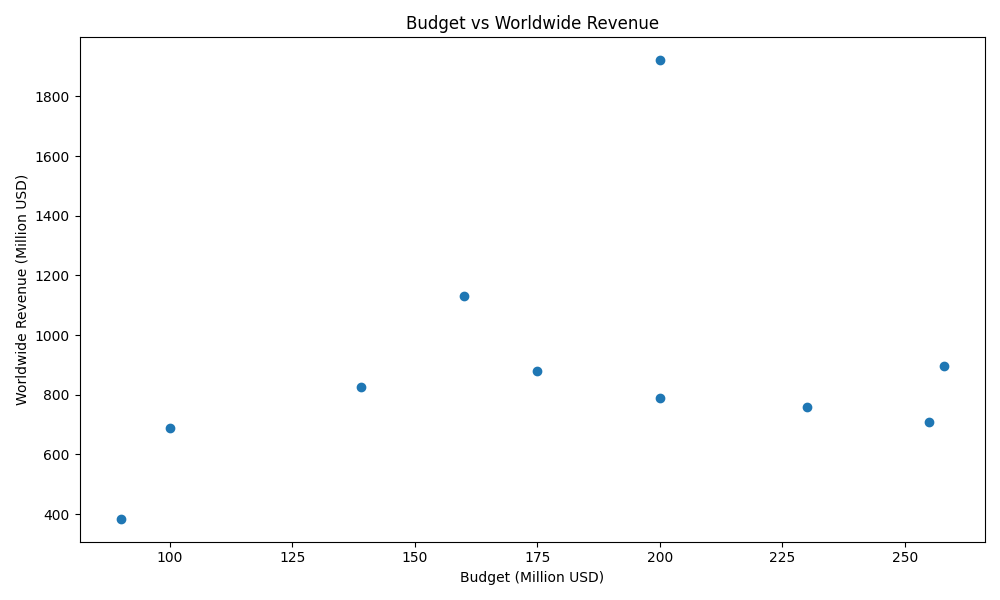
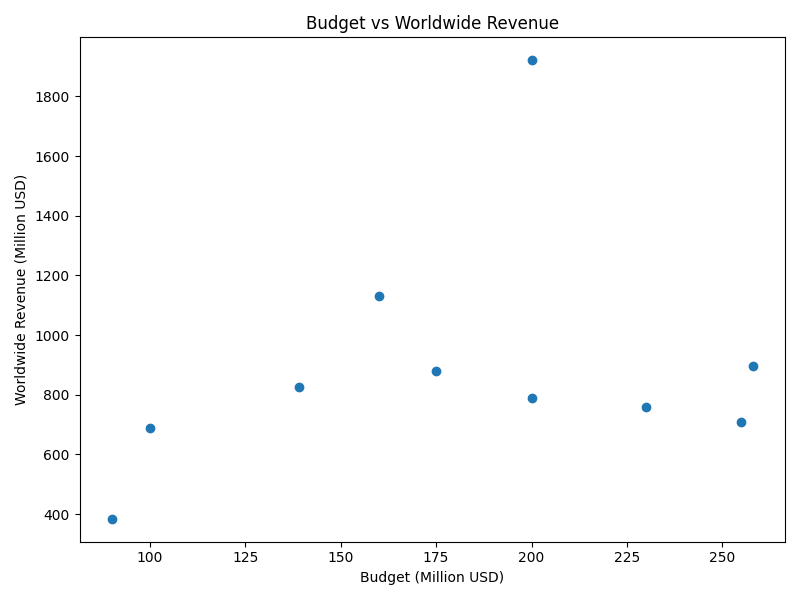
Refactor code into functions and improve visualizations

diff --git a/main.py b/main.py
@@ -1,111 +1,138 @@
-print("Spider-Man Box Office Analysis")
-
 import pandas as pd
 import matplotlib.pyplot as plt
 
-df = pd.read_csv("spiderman_movies.csv")
 
-print(df)
+def load_data():
+    return pd.read_csv("spiderman_movies.csv")
 
-print("\n========== SUMMARY ==========\n")
-print(df.describe())
 
-print("\nAverage Budget:")
-average_budget = df["Budget"].mean()
+def summary_statistics(df):
+    print("\n========== SUMMARY ==========\n")
+    print(df.describe())
 
-print(f"Average movie budget: ${average_budget:.1f} million")
+    average_budget = df["Budget"].mean()
+    print(f"\nAverage movie budget: ${average_budget:.1f} million")
 
-print("\nHighest Worldwide Gross:")
-print(df["Worldwide"].max())
 
-print("\n========== HIGHEST GROSSING MOVIE ==========\n")
+def highest_grossing_movie(df):
+    print("\n========== HIGHEST GROSSING MOVIE ==========\n")
 
-highest_gross = df.loc[df["Worldwide"].idxmax()]
+    highest = df.loc[df["Worldwide"].idxmax()]
 
-print(
-    f"{highest_gross['Movie']} earned "
-    f"${highest_gross['Worldwide']} million worldwide."
-)
+    print(
+        f"{highest['Movie']} earned "
+        f"${highest['Worldwide']} million worldwide."
+    )
 
-print("\n========== HIGHEST RATED MOVIE ==========\n")
 
-highest_rating = df.loc[df["IMDb"].idxmax()]
+def highest_rated_movie(df):
+    print("\n========== HIGHEST RATED MOVIE ==========\n")
 
-print(
-    f"{highest_rating['Movie']} has an IMDb rating of "
-    f"{highest_rating['IMDb']}."
-)
+    highest = df.loc[df["IMDb"].idxmax()]
 
-print("\n========== LOWEST BUDGET MOVIE ==========\n")
+    print(
+        f"{highest['Movie']} has an IMDb rating of "
+        f"{highest['IMDb']}."
+    )
 
-lowest_budget = df.loc[df["Budget"].idxmin()]
 
-print(
-    f"{lowest_budget['Movie']} had a budget of "
-    f"${lowest_budget['Budget']} million."
-)
+def lowest_budget_movie(df):
+    print("\n========== LOWEST BUDGET MOVIE ==========\n")
 
-print("\n========== MILES MORALES MOVIES ==========\n")
+    lowest = df.loc[df["Budget"].idxmin()]
 
-miles_movies = df[df["Character"] == "Miles Morales"]
+    print(
+        f"{lowest['Movie']} had a budget of "
+        f"${lowest['Budget']} million."
+    )
 
-print(miles_movies)
 
-print("\n========== Peter Parker MOVIES ==========\n")
+def character_analysis(df):
+    print("\n========== MILES MORALES MOVIES ==========\n")
+    print(df[df["Character"] == "Miles Morales"])
 
-peters_movies = df[df["Character"] == "Peter Parker"]
+    print("\n========== PETER PARKER MOVIES ==========\n")
+    print(df[df["Character"] == "Peter Parker"])
 
-print(peters_movies)
+    print("\n========== CHARACTER RATING COMPARISON ==========\n")
 
-print("\n========== CHARACTER RATING COMPARISON ==========\n")
+    ratings = df.groupby("Character")["IMDb"].mean()
 
-character_rating = df.groupby("Character")["IMDb"].mean()
+    for character, rating in ratings.items():
+        print(f"{character}: Average IMDb rating = {rating:.2f}")
 
-for character, rating in character_rating.items():
-    print(f"{character}: Average IMDb rating = {rating:.2f}")
 
-print("\n========== BUDGET VS REVENUE ==========\n")
+def profit_analysis(df):
+    print("\n========== BUDGET VS REVENUE ==========\n")
 
-df["Profit"] = df["Worldwide"] - df["Budget"]
+    df["Profit"] = df["Worldwide"] - df["Budget"]
 
-most_profitable = df.loc[df["Profit"].idxmax()]
+    highest_profit = df.loc[df["Profit"].idxmax()]
 
-print(
-    f"{most_profitable['Movie']} generated the highest profit "
-    f"with ${most_profitable['Profit']} million."
-)
+    print(
+        f"{highest_profit['Movie']} generated the highest profit "
+        f"with ${highest_profit['Profit']} million."
+    )
 
-print("\n========== CREATING CHART ==========\n")
 
-df_sorted = df.sort_values(by="Worldwide")
+def create_charts(df):
 
-plt.figure(figsize=(14, 7))
+    print("\n========== CREATING CHARTS ==========\n")
 
-plt.barh(df_sorted["Movie"], df_sorted["Worldwide"])
+    # -------------------------
+    # Chart 1: Worldwide Revenue
+    # -------------------------
 
-plt.title("Worldwide Box Office Revenue of Spider-Man Movies")
-plt.xlabel("Worldwide Revenue (Million USD)")
-plt.ylabel("Movie")
+    df_sorted = df.sort_values(by="Worldwide")
 
-plt.tight_layout()
+    plt.figure(figsize=(14, 7))
 
-plt.savefig("worldwide_box_office.png")
+    plt.barh(df_sorted["Movie"], df_sorted["Worldwide"])
 
-plt.show()
+    plt.title("Worldwide Box Office Revenue of Spider-Man Movies")
+    plt.xlabel("Worldwide Revenue (Million USD)")
+    plt.ylabel("Movie")
 
-print("\n========== BUDGET VS WORLDWIDE REVENUE ==========\n")
+    plt.tight_layout()
 
-plt.figure(figsize=(10, 6))
+    plt.savefig("worldwide_box_office.png")
 
-plt.scatter(df["Budget"], df["Worldwide"])
+    plt.show()
 
-plt.title("Budget vs Worldwide Revenue")
-plt.xlabel("Budget (Million USD)")
-plt.ylabel("Worldwide Revenue (Million USD)")
+    # -------------------------
+    # Chart 2: Budget vs Revenue
+    # -------------------------
 
-plt.tight_layout()
+    plt.figure(figsize=(8, 6))
 
-plt.savefig("budget_vs_worldwide.png")
+    plt.scatter(df["Budget"], df["Worldwide"])
 
-plt.show()
+    plt.title("Budget vs Worldwide Revenue")
+    plt.xlabel("Budget (Million USD)")
+    plt.ylabel("Worldwide Revenue (Million USD)")
 
+    plt.tight_layout()
+
+    plt.savefig("budget_vs_worldwide.png")
+
+    plt.show()
+
+
+def main():
+    print("Spider-Man Box Office Analysis")
+
+    df = load_data()
+
+    print(df)
+
+    summary_statistics(df)
+    highest_grossing_movie(df)
+    highest_rated_movie(df)
+    lowest_budget_movie(df)
+    character_analysis(df)
+    profit_analysis(df)
+    create_charts(df)
+
+
+if __name__ == "__main__":
+    main()